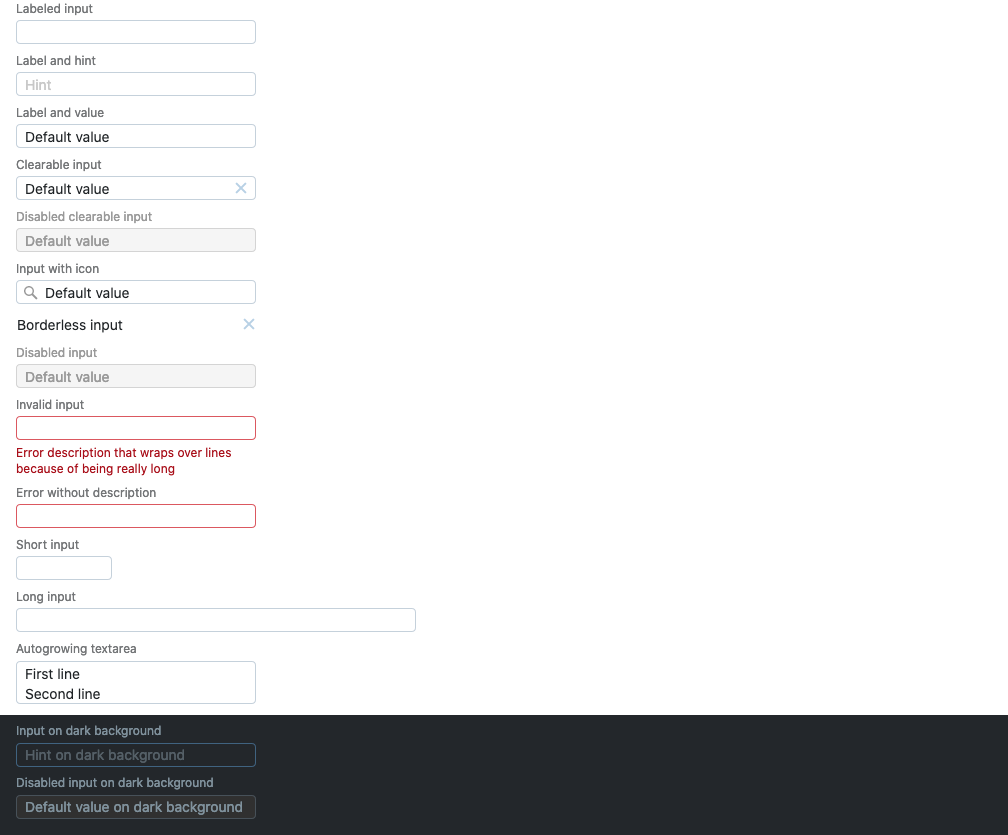
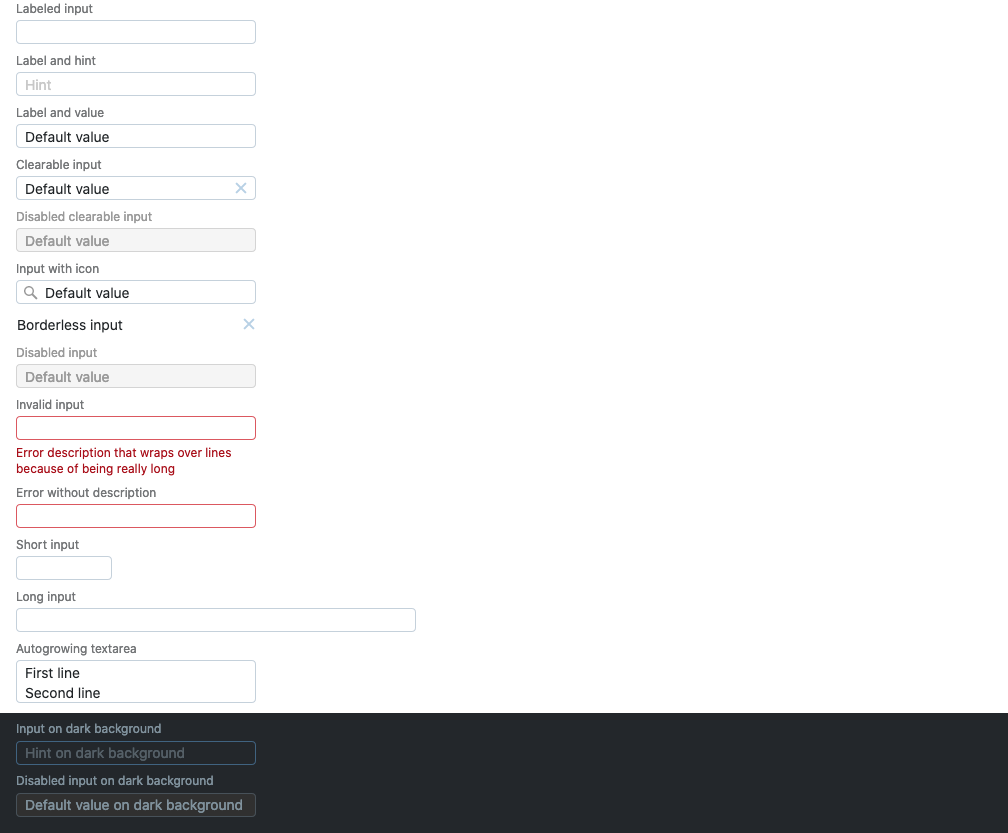
Revert examples change

Changed region(s): [[0.0, 0.1561, 0.3998, 0.8427]]

diff --git a/src/input/input.examples.tsx b/src/input/input.examples.tsx
@@ -52,7 +52,7 @@ class ClearableInput extends PureComponent<ContainerProps<InputSpecificProps>> {
 }
 const Inputs = () => (
   <form className="inputs">
-    <Input type="search" label="Labeled input"/>
+    <Input label="Labeled input"/>
     <Input name="login" label="Label and hint" placeholder="Hint"/>
     <Input label="Label and value" defaultValue="Default value"/>
     <ClearableInput label="Clearable input" defaultValue="Default value"/>
